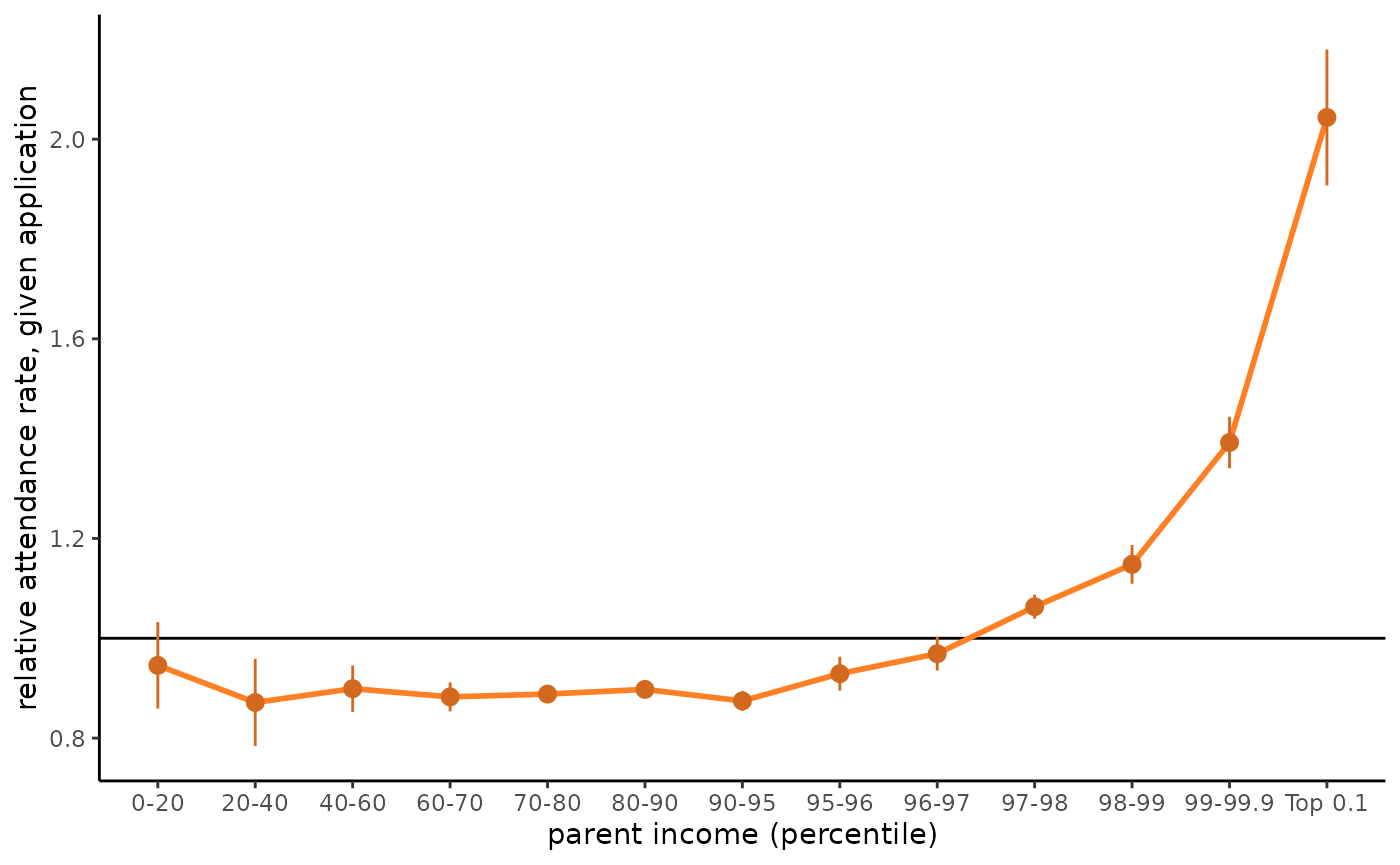
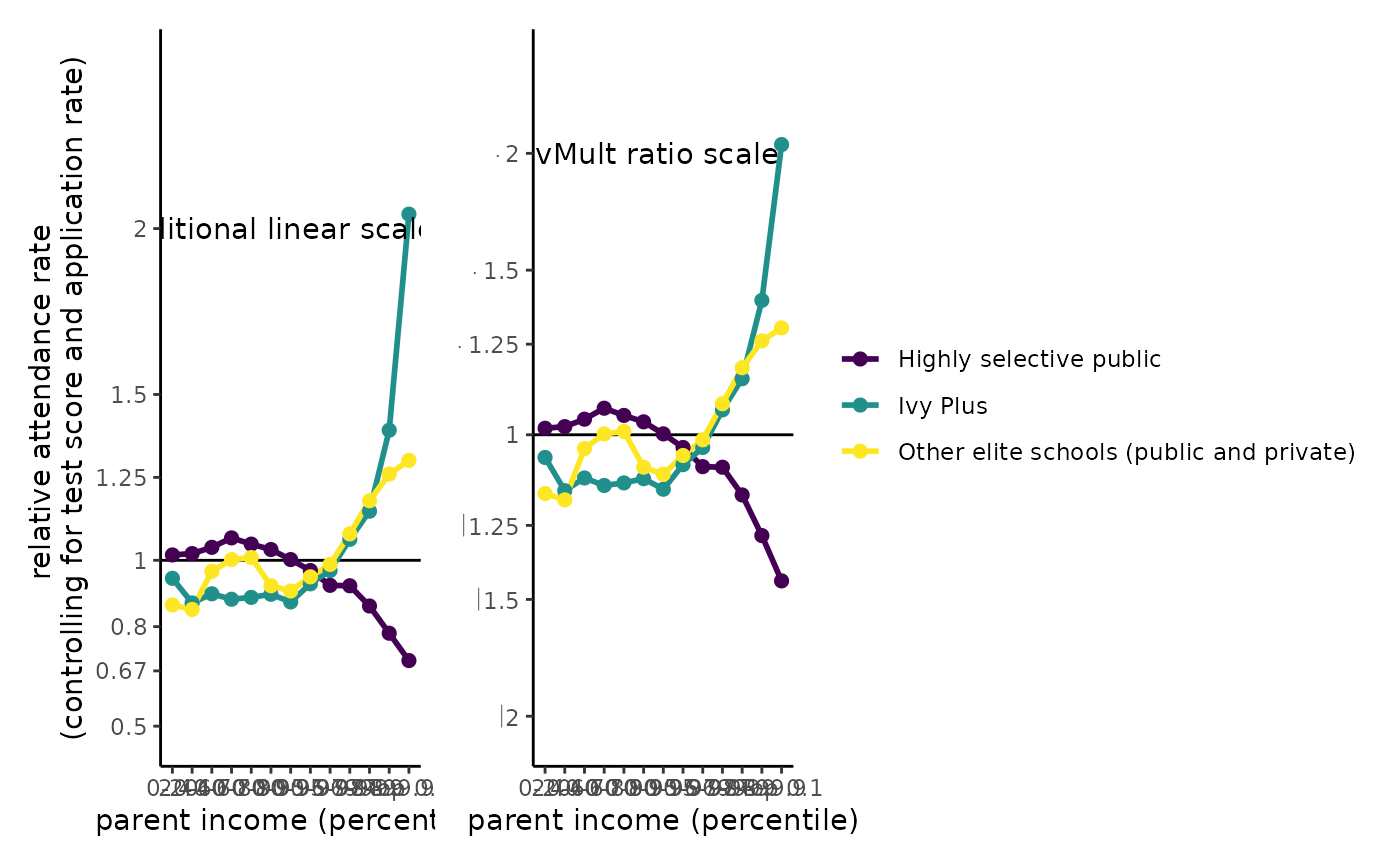
Deploying to gh-pages from @ mikeroswell/ratioScales@a3923b3bfc29546224fc4c83edb156bf60d25e25 🚀

diff --git a/articles/gallery.html b/articles/gallery.html
@@ -86,84 +86,107 @@
 <span><span class="co">#&gt; The following objects are masked from 'package:base':</span></span>
 <span><span class="co">#&gt; </span></span>
 <span><span class="co">#&gt;     intersect, setdiff, setequal, union</span></span>
-<span><span class="kw"><a href="https://rdrr.io/r/base/library.html" class="external-link">library</a></span><span class="op">(</span><span class="va"><a href="https://ggplot2.tidyverse.org" class="external-link">ggplot2</a></span><span class="op">)</span></span></code></pre></div>
+<span><span class="kw"><a href="https://rdrr.io/r/base/library.html" class="external-link">library</a></span><span class="op">(</span><span class="va"><a href="https://ggplot2.tidyverse.org" class="external-link">ggplot2</a></span><span class="op">)</span></span>
+<span><span class="kw"><a href="https://rdrr.io/r/base/library.html" class="external-link">library</a></span><span class="op">(</span><span class="va"><a href="https://patchwork.data-imaginist.com" class="external-link">patchwork</a></span><span class="op">)</span></span></code></pre></div>
 <div class="section level2">
 <h2 id="gallery">Gallery<a class="anchor" aria-label="anchor" href="#gallery"></a>
 </h2>
 <p>This vignette illustrates the use of ratioScales in data
 visualizations on topics ranging from exchange rates and college
 admissions to <!--everything else
---></p>
-<div class="section level3">
-<h3 id="wealth-and-college-admissions">Wealth and college admissions<a class="anchor" aria-label="anchor" href="#wealth-and-college-admissions"></a>
-</h3>
-<p>In July 2023, Chetty et al. published <a href="https://opportunityinsights.org/wp-content/uploads/2023/07/CollegeAdmissions_Paper.pdf" class="external-link">a
+--> ## Wealth and college admissions
+<!-- I think this is the right basic idea, but the data series to visualize
+could be smarter. Overall, we want something that gives a nice clear picture
+with the ratioScales. Also, simpler story (relative relative relative stuff is
+infuriating) would be better. Keep exploring. --> In July 2023, Chetty
+et al. published <a href="https://opportunityinsights.org/wp-content/uploads/2023/07/CollegeAdmissions_Paper.pdf" class="external-link">a
 study</a> that showed, among other things, that after controlling for
 SAT scores, wealthy students had much higher attendance rates at the
 most elite US colleges. Their data were visualized by Bhatia et al. in
 the <a href="https://www.nytimes.com/interactive/2023/07/24/upshot/ivy-league-elite-college-admissions.html" class="external-link">New
-York Times</a>, and later developed into an <a href="https://www.nytimes.com/interactive/2023/09/11/upshot/college-income-lookup.html" class="external-link">interactive
-toolkit</a> the ratio scale we call “divmult” in
-<strong>ratioScales</strong>. Here, we re-create some of their images,
-side by side, i.e., visualizing the same data, with and without ratio
-scales.</p>
+York Times</a>, where the headline highlighted how at the most
+“Selective” colleges, parent income boosted admissions rates after
+controlling for standardized test scores. Their visualizations were
+later developed into an <a href="https://www.nytimes.com/interactive/2023/09/11/upshot/college-income-lookup.html" class="external-link">interactive
+toolkit</a> Although the original Chetty et al. paper used traditional
+linear scales, the NYT/upshot visualizations used the ratio scale we
+call “divmult” in <strong>ratioScales</strong>.</p>
+<p>Here, we pulled out some additional relationships revealed by Chetty
+et al.’s data, visualizing them, with and without ratio scales.</p>
+<p>These data conflate admissions and “yield”… showing relative
+attendance rates for students with parents in each income bracket after
+controlling (within school tier/type) and relative application rates. A
+rate &gt;1 may mean students are admitted at higher rates, or that they
+choose to attend once offered admission at higher rates, or a
+combination of both factors, compared to expectations given by their
+test scores.</p>
 <div class="sourceCode" id="cb2"><pre class="downlit sourceCode r">
-<code class="sourceCode R"><span><span class="va">admit</span> <span class="op"><a href="../reference/pipe.html">%&gt;%</a></span> </span>
-<span>  <span class="fu"><a href="https://dplyr.tidyverse.org/reference/filter.html" class="external-link">filter</a></span><span class="op">(</span><span class="va">tier</span> <span class="op">==</span> <span class="st">"Ivy Plus"</span>, <span class="va">par_income_lab</span> <span class="op">!=</span> <span class="st">"Top 1"</span><span class="op">)</span> <span class="op"><a href="../reference/pipe.html">%&gt;%</a></span> </span>
+<code class="sourceCode R"><span><span class="co"># create a base plot (linear scale)</span></span>
+<span><span class="va">bp</span> <span class="op">&lt;-</span> <span class="va">admit</span> <span class="op"><a href="../reference/pipe.html">%&gt;%</a></span></span>
+<span>  <span class="co"># filter(tier == "Ivy Plus", par_income_lab != "Top 1") %&gt;%</span></span>
+<span>  <span class="co"># not using: , "Highly selective private"</span></span>
+<span>  <span class="fu"><a href="https://dplyr.tidyverse.org/reference/filter.html" class="external-link">filter</a></span><span class="op">(</span><span class="va">tier</span> <span class="op"><a href="https://rdrr.io/r/base/match.html" class="external-link">%in%</a></span> <span class="fu"><a href="https://rdrr.io/r/base/c.html" class="external-link">c</a></span><span class="op">(</span><span class="st">"Highly selective public"</span>, <span class="st">"Ivy Plus"</span>, <span class="st">"Other elite schools (public and private)"</span><span class="op">)</span></span>
+<span>         , <span class="va">par_income_lab</span> <span class="op">!=</span> <span class="st">"Top 1"</span><span class="op">)</span> <span class="op"><a href="../reference/pipe.html">%&gt;%</a></span></span>
+<span>  <span class="fu"><a href="https://dplyr.tidyverse.org/reference/group_by.html" class="external-link">group_by</a></span><span class="op">(</span><span class="va">tier</span>, <span class="va">par_income_lab</span><span class="op">)</span> <span class="op"><a href="../reference/pipe.html">%&gt;%</a></span> </span>
+<span>  <span class="fu"><a href="https://dplyr.tidyverse.org/reference/summarise.html" class="external-link">summarize</a></span><span class="op">(</span>mean_rel_att <span class="op">=</span> <span class="fu"><a href="https://rdrr.io/r/base/mean.html" class="external-link">mean</a></span><span class="op">(</span><span class="va">rel_att_cond_app</span><span class="op">)</span></span>
+<span>            , sd_rel_att <span class="op">=</span> <span class="fu"><a href="https://rdrr.io/r/stats/sd.html" class="external-link">sd</a></span><span class="op">(</span><span class="va">rel_att_cond_app</span><span class="op">)</span><span class="op">)</span> <span class="op"><a href="../reference/pipe.html">%&gt;%</a></span> </span>
 <span>  <span class="fu"><a href="https://ggplot2.tidyverse.org/reference/ggplot.html" class="external-link">ggplot</a></span><span class="op">(</span><span class="fu"><a href="https://ggplot2.tidyverse.org/reference/aes.html" class="external-link">aes</a></span><span class="op">(</span><span class="va">par_income_lab</span></span>
-<span>             , y <span class="op">=</span>  <span class="va">rel_att_cond_app</span></span>
-<span>             <span class="co"># , y = rel_attend</span></span>
-<span>             <span class="co"># , y = rel_attend_sat</span></span>
-<span>             , group <span class="op">=</span> <span class="fl">1</span> <span class="op">)</span><span class="op">)</span> <span class="op">+</span></span>
+<span>             , y <span class="op">=</span>  <span class="va">mean_rel_att</span></span>
+<span>             , color <span class="op">=</span> <span class="va">tier</span></span>
+<span>             , group <span class="op">=</span> <span class="va">tier</span></span>
+<span>             <span class="op">)</span><span class="op">)</span> <span class="op">+</span></span>
 <span>  <span class="fu"><a href="https://ggplot2.tidyverse.org/reference/geom_abline.html" class="external-link">geom_hline</a></span><span class="op">(</span>yintercept <span class="op">=</span> <span class="fl">1</span><span class="op">)</span> <span class="op">+</span></span>
-<span>  <span class="fu"><a href="https://ggplot2.tidyverse.org/reference/stat_summary.html" class="external-link">stat_summary</a></span><span class="op">(</span>fun <span class="op">=</span> <span class="st">"mean"</span></span>
-<span>               , geom <span class="op">=</span> <span class="st">"line"</span>,  size <span class="op">=</span> <span class="fl">1</span>, color <span class="op">=</span> <span class="st">"chocolate1"</span><span class="op">)</span> <span class="op">+</span></span>
-<span>  <span class="fu"><a href="https://ggplot2.tidyverse.org/reference/stat_summary.html" class="external-link">stat_summary</a></span><span class="op">(</span> fun.data <span class="op">=</span> <span class="st">"mean_se"</span></span>
-<span>                , geom <span class="op">=</span> <span class="st">"pointrange"</span>, fatten  <span class="op">=</span> <span class="fl">4</span>, color <span class="op">=</span> <span class="st">"chocolate"</span><span class="op">)</span> <span class="op">+</span></span>
+<span>  <span class="fu"><a href="https://ggplot2.tidyverse.org/reference/geom_path.html" class="external-link">geom_line</a></span><span class="op">(</span>size <span class="op">=</span> <span class="fl">1</span><span class="op">)</span> <span class="op">+</span></span>
+<span>  <span class="fu"><a href="https://ggplot2.tidyverse.org/reference/geom_point.html" class="external-link">geom_point</a></span><span class="op">(</span>size <span class="op">=</span> <span class="fl">2</span><span class="op">)</span> <span class="op">+</span> </span>
 <span>  <span class="fu"><a href="https://ggplot2.tidyverse.org/reference/labs.html" class="external-link">labs</a></span><span class="op">(</span>x <span class="op">=</span> <span class="st">"parent income (percentile)"</span></span>
-<span>       , y <span class="op">=</span> <span class="st">"relative attendance rate, given application"</span><span class="op">)</span> <span class="op">+</span> </span>
-<span>  <span class="co"># stat_summary(aes(y = rel_apply), geom = "line") +</span></span>
-<span>  <span class="co">#  stat_summary(aes(y = rel_apply), geom = "pointrange") +</span></span>
-<span>  <span class="co"># scale_y_ratio(tickVal = "divMult", slashStar = FALSE, n = 12) + </span></span>
-<span>  <span class="fu"><a href="https://ggplot2.tidyverse.org/reference/ggtheme.html" class="external-link">theme_classic</a></span><span class="op">(</span><span class="op">)</span>  </span>
+<span>       , y <span class="op">=</span> <span class="st">"relative attendance rate \n(controlling for test score and application rate)"</span><span class="op">)</span> <span class="op">+</span></span>
+<span>  <span class="fu"><a href="https://ggplot2.tidyverse.org/reference/ggtheme.html" class="external-link">theme_classic</a></span><span class="op">(</span><span class="op">)</span> <span class="op">+</span></span>
+<span>  <span class="fu"><a href="https://ggplot2.tidyverse.org/reference/scale_continuous.html" class="external-link">scale_y_continuous</a></span><span class="op">(</span>breaks <span class="op">=</span> <span class="fu"><a href="https://rdrr.io/r/base/c.html" class="external-link">c</a></span><span class="op">(</span><span class="fl">0.5</span>, <span class="fl">1</span><span class="op">/</span><span class="fl">1.5</span>, <span class="fl">1</span><span class="op">/</span><span class="fl">1.25</span>, <span class="fl">1</span>, <span class="fl">1.25</span>, <span class="fl">1.5</span>, <span class="fl">2</span><span class="op">)</span></span>
+<span>                     , limits <span class="op">=</span> <span class="fu"><a href="https://rdrr.io/r/base/c.html" class="external-link">c</a></span><span class="op">(</span><span class="fl">0.48</span>, <span class="fl">2.5</span><span class="op">)</span></span>
+<span>                     , labels <span class="op">=</span> <span class="kw">function</span><span class="op">(</span><span class="va">x</span><span class="op">)</span><span class="op">{</span><span class="fu"><a href="https://rdrr.io/r/base/Round.html" class="external-link">round</a></span><span class="op">(</span><span class="va">x</span>,<span class="fl">2</span><span class="op">)</span><span class="op">}</span></span>
+<span>                     <span class="op">)</span> <span class="op">+</span></span>
+<span>  <span class="fu"><a href="https://ggplot2.tidyverse.org/reference/scale_viridis.html" class="external-link">scale_color_viridis_d</a></span><span class="op">(</span><span class="op">)</span></span>
+<span><span class="co">#&gt; `summarise()` has grouped output by 'tier'. You can override using the</span></span>
+<span><span class="co">#&gt; `.groups` argument.</span></span>
 <span><span class="co">#&gt; Warning: Using `size` aesthetic for lines was deprecated in ggplot2 3.4.0.</span></span>
 <span><span class="co">#&gt; <span style="color: #00BBBB;">ℹ</span> Please use `linewidth` instead.</span></span>
 <span><span class="co">#&gt; <span style="color: #555555;">This warning is displayed once every 8 hours.</span></span></span>
 <span><span class="co">#&gt; <span style="color: #555555;">Call `lifecycle::last_lifecycle_warnings()` to see where this warning was</span></span></span>
-<span><span class="co">#&gt; <span style="color: #555555;">generated.</span></span></span></code></pre></div>
+<span><span class="co">#&gt; <span style="color: #555555;">generated.</span></span></span>
+<span></span>
+<span><span class="co"># add ratio scale</span></span>
+<span><span class="va">ratioscaled</span> <span class="op">&lt;-</span> <span class="va">bp</span> <span class="op">+</span></span>
+<span>  <span class="fu"><a href="../reference/scale_ratio.html">scale_y_ratio</a></span><span class="op">(</span>tickVal <span class="op">=</span> <span class="st">"divMult"</span></span>
+<span>                , slashStar <span class="op">=</span> <span class="cn">FALSE</span></span>
+<span>                , breaks <span class="op">=</span> <span class="fu"><a href="https://rdrr.io/r/base/c.html" class="external-link">c</a></span><span class="op">(</span><span class="fl">0.5</span>, <span class="fl">1</span><span class="op">/</span><span class="fl">1.5</span>, <span class="fl">1</span><span class="op">/</span><span class="fl">1.25</span>, <span class="fl">1</span>, <span class="fl">1.25</span>, <span class="fl">1.5</span>, <span class="fl">2</span><span class="op">)</span></span>
+<span>                , limits <span class="op">=</span> <span class="fu"><a href="https://rdrr.io/r/base/c.html" class="external-link">c</a></span><span class="op">(</span><span class="fl">0.48</span>, <span class="fl">2.5</span><span class="op">)</span></span>
+<span>                <span class="op">)</span> <span class="op">+</span></span>
+<span>   <span class="fu"><a href="https://ggplot2.tidyverse.org/reference/annotate.html" class="external-link">annotate</a></span><span class="op">(</span>x <span class="op">=</span> <span class="st">"80-90"</span>, y <span class="op">=</span> <span class="fl">2</span>, label <span class="op">=</span> <span class="st">"divMult ratio scale"</span>, geom <span class="op">=</span> <span class="st">"text"</span><span class="op">)</span> </span>
+<span><span class="co">#&gt; Scale for <span style="color: #00BB00;">y</span> is already present.</span></span>
+<span><span class="co">#&gt; Adding another scale for <span style="color: #00BB00;">y</span>, which will replace the existing scale.</span></span>
+<span></span>
+<span><span class="co">#print plots side by side</span></span>
+<span><span class="va">bp</span> <span class="op">+</span> </span>
+<span>  <span class="fu"><a href="https://ggplot2.tidyverse.org/reference/annotate.html" class="external-link">annotate</a></span><span class="op">(</span>x <span class="op">=</span> <span class="st">"80-90"</span>, y <span class="op">=</span> <span class="fl">2</span>, label <span class="op">=</span> <span class="st">"traditional linear scale"</span>, geom <span class="op">=</span> <span class="st">"text"</span><span class="op">)</span> <span class="op">+</span></span>
+<span>  <span class="fu"><a href="https://ggplot2.tidyverse.org/reference/theme.html" class="external-link">theme</a></span><span class="op">(</span>legend.position <span class="op">=</span> <span class="st">"none"</span><span class="op">)</span> <span class="op">+</span> </span>
+<span>  <span class="va">ratioscaled</span> <span class="op">+</span></span>
+<span>  <span class="fu"><a href="https://ggplot2.tidyverse.org/reference/labs.html" class="external-link">labs</a></span><span class="op">(</span>y <span class="op">=</span> <span class="cn">NULL</span>, color <span class="op">=</span> <span class="cn">NULL</span><span class="op">)</span></span></code></pre></div>
 <p><img src="gallery_files/figure-html/admit-1.png" width="700"></p>
-<div class="sourceCode" id="cb3"><pre class="downlit sourceCode r">
-<code class="sourceCode R"><span></span>
-<span><span class="va">admit</span> <span class="op"><a href="../reference/pipe.html">%&gt;%</a></span> </span>
-<span>  <span class="fu"><a href="https://dplyr.tidyverse.org/reference/filter.html" class="external-link">filter</a></span><span class="op">(</span><span class="va">tier</span> <span class="op">==</span> <span class="st">"Ivy Plus"</span>, <span class="va">par_income_lab</span> <span class="op">!=</span> <span class="st">"Top 1"</span><span class="op">)</span> <span class="op"><a href="../reference/pipe.html">%&gt;%</a></span> </span>
-<span>  <span class="fu"><a href="https://ggplot2.tidyverse.org/reference/ggplot.html" class="external-link">ggplot</a></span><span class="op">(</span><span class="fu"><a href="https://ggplot2.tidyverse.org/reference/aes.html" class="external-link">aes</a></span><span class="op">(</span><span class="va">par_income_lab</span>, <span class="va">rel_attend</span>, group <span class="op">=</span> <span class="fl">1</span> <span class="op">)</span><span class="op">)</span> <span class="op">+</span></span>
-<span>  <span class="fu"><a href="https://ggplot2.tidyverse.org/reference/geom_abline.html" class="external-link">geom_hline</a></span><span class="op">(</span>yintercept <span class="op">=</span> <span class="fl">1</span><span class="op">)</span> <span class="op">+</span></span>
-<span>  <span class="fu"><a href="https://ggplot2.tidyverse.org/reference/stat_summary.html" class="external-link">stat_summary</a></span><span class="op">(</span>geom <span class="op">=</span> <span class="st">"line"</span>, size <span class="op">=</span> <span class="fl">1</span>, color <span class="op">=</span> <span class="st">"chocolate1"</span><span class="op">)</span> <span class="op">+</span></span>
-<span>  <span class="fu"><a href="https://ggplot2.tidyverse.org/reference/stat_summary.html" class="external-link">stat_summary</a></span><span class="op">(</span>geom <span class="op">=</span> <span class="st">"pointrange"</span>,  fatten  <span class="op">=</span> <span class="fl">4</span>, color <span class="op">=</span> <span class="st">"chocolate"</span><span class="op">)</span> <span class="op">+</span> </span>
-<span>  <span class="co"># scale_x_sqrt() +</span></span>
-<span>  <span class="co"># scale_x_log10() +</span></span>
-<span>  <span class="fu"><a href="https://ggplot2.tidyverse.org/reference/ggtheme.html" class="external-link">theme_classic</a></span><span class="op">(</span><span class="op">)</span>  </span>
-<span><span class="co">#&gt; No summary function supplied, defaulting to `mean_se()`</span></span>
-<span><span class="co">#&gt; No summary function supplied, defaulting to `mean_se()`</span></span></code></pre></div>
-<p><img src="gallery_files/figure-html/admit-2.png" width="700"></p>
-<div class="sourceCode" id="cb4"><pre class="downlit sourceCode r">
-<code class="sourceCode R"><span></span>
-<span><span class="va">admit</span> <span class="op"><a href="../reference/pipe.html">%&gt;%</a></span> </span>
-<span>  <span class="fu"><a href="https://dplyr.tidyverse.org/reference/filter.html" class="external-link">filter</a></span><span class="op">(</span><span class="va">tier</span> <span class="op">==</span> <span class="st">"Ivy Plus"</span>, <span class="va">par_income_lab</span> <span class="op">!=</span> <span class="st">"Top 1"</span><span class="op">)</span> <span class="op"><a href="../reference/pipe.html">%&gt;%</a></span> </span>
-<span>  <span class="fu"><a href="https://ggplot2.tidyverse.org/reference/ggplot.html" class="external-link">ggplot</a></span><span class="op">(</span><span class="fu"><a href="https://ggplot2.tidyverse.org/reference/aes.html" class="external-link">aes</a></span><span class="op">(</span><span class="va">par_income_lab</span>, <span class="va">rel_attend</span>, group <span class="op">=</span> <span class="fl">1</span> <span class="op">)</span><span class="op">)</span> <span class="op">+</span></span>
-<span>  <span class="fu"><a href="https://ggplot2.tidyverse.org/reference/geom_abline.html" class="external-link">geom_hline</a></span><span class="op">(</span>yintercept <span class="op">=</span> <span class="fl">1</span><span class="op">)</span> <span class="op">+</span></span>
-<span>  <span class="fu"><a href="https://ggplot2.tidyverse.org/reference/stat_summary.html" class="external-link">stat_summary</a></span><span class="op">(</span>geom <span class="op">=</span> <span class="st">"line"</span>, size <span class="op">=</span> <span class="fl">1</span>, color <span class="op">=</span> <span class="st">"chocolate1"</span><span class="op">)</span> <span class="op">+</span></span>
-<span>  <span class="fu"><a href="https://ggplot2.tidyverse.org/reference/stat_summary.html" class="external-link">stat_summary</a></span><span class="op">(</span>geom <span class="op">=</span> <span class="st">"pointrange"</span>,  fatten  <span class="op">=</span> <span class="fl">4</span>, color <span class="op">=</span> <span class="st">"chocolate"</span><span class="op">)</span> <span class="op">+</span> </span>
-<span>  <span class="co"># scale_x_sqrt() +</span></span>
-<span>  <span class="co"># scale_x_log10() +</span></span>
-<span>  <span class="fu"><a href="https://ggplot2.tidyverse.org/reference/ggtheme.html" class="external-link">theme_classic</a></span><span class="op">(</span><span class="op">)</span>  </span>
-<span><span class="co">#&gt; No summary function supplied, defaulting to `mean_se()`</span></span>
-<span><span class="co">#&gt; No summary function supplied, defaulting to `mean_se()`</span></span></code></pre></div>
-<p><img src="gallery_files/figure-html/admit-3.png" width="700"></p>
+<p>Of course, both plots show the same data, but they seem to tell
+somewhat different stories. Both plots show that the wealthiest students
+attend the most selective colleges… “Ivy Plus” and “Other elite,” at
+much higher-than-expected rates… over double for the top 0.1% at the Ivy
+Plus schools. A tier down, the “Highly selective colleges” show an
+opposing pattern, where the wealthiest students disproportionately do
+not attend. Presumably these students don’t receive an admissions
+disadvantage at these public schools, but instead are choosing to attend
+those most selective colleges.</p>
+<p>The ratio scale highlights, among the “Highly selective public”
+colleges, the dramatically low attendance rate for the wealthiest
+students. This dramatic difference is compressed on the linear
+scale.</p>
 </div>
-</div>
-  </main><aside class="col-md-3"><nav id="toc"><h2>On this page</h2>
-    </nav></aside>
+  </main>
 </div>
 
 

diff --git a/reference/admit.html b/reference/admit.html
@@ -104,7 +104,25 @@ of-state students matriculating from public schools</p></li>
 school-tier test band</p></li>
 <li><p><strong>stderr_attend_oostate_sat</strong> Numeric, standard error in
 attend_oostate_sat</p></li>
-<li><p><strong>attend_level_oostate_sat</strong> 	rel_apply_instate	stderr_rel_apply_instate	rel_attend_instate	stderr_rel_attend_instate	rel_att_cond_app_instate	rel_apply_oostate	stderr_rel_apply_oostate	rel_attend_oostate	stderr_rel_attend_oostate	rel_att_cond_app_oostate	rel_apply_instate_sat	stderr_rel_apply_instate_sat	rel_attend_instate_sat	stderr_rel_attend_instate_sat	rel_att_cond_app_instate_sat	rel_apply_oostate_sat	stderr_rel_apply_oostate_sat	rel_attend_oostate_sat	stderr_rel_attend_oostate_sat	rel_att_cond_app_oostate_sat	public	flagship	tier	tier_name	test_band_tier</p></li>
+<li><p><strong>attend_level_oostate_sat</strong></p></li>
+<li><p><strong>rel_apply_instate</strong></p></li>
+<li><p><strong>stderr_rel_apply_instate</strong></p></li>
+<li><p><strong>rel_attend_instate</strong></p></li>
+<li><p><strong>stderr_rel_attend_instate</strong></p></li>
+<li><p><strong>rel_att_cond_app_instate</strong></p></li>
+<li><p><strong>rel_apply_oostate</strong></p></li>
+<li><p><strong>stderr_rel_apply_oostate</strong></p></li>
+<li><p><strong>rel_attend_oostate</strong></p></li>
+<li><p><strong>stderr_rel_attend_oostate</strong></p></li>
+<li><p><strong>rel_att_cond_app_oostate</strong></p></li>
+<li><p><strong>rel_apply_instate_sat</strong></p></li>
+<li><p><strong>stderr_rel_apply_instate_sat</strong></p></li>
+<li><p><strong>rel_attend_instate_sat</strong></p></li>
+<li><p><strong>stderr_rel_attend_instate_sat</strong></p></li>
+<li><p><strong>rel_att_cond_app_instate_sat</strong></p></li>
+<li><p><strong>rel_apply_oostate_sat</strong></p></li>
+<li><p><strong>stderr_rel_apply_oostate_sat</strong></p></li>
+<li><p><strong>rel_attend_oostate_sat</strong>	stderr_rel_attend_oostate_sat	rel_att_cond_app_oostate_sat	public	flagship	tier	tier_name	test_band_tier</p></li>
 </ul></div>
     <div class="section level2">
     <h2 id="source">Source<a class="anchor" aria-label="anchor" href="#source"></a></h2>
